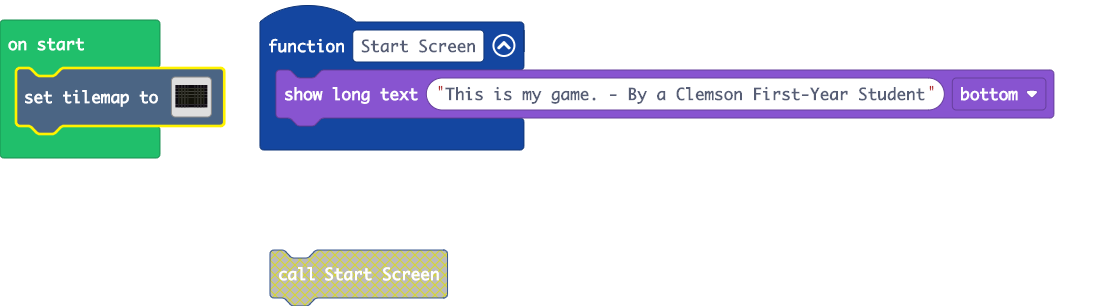
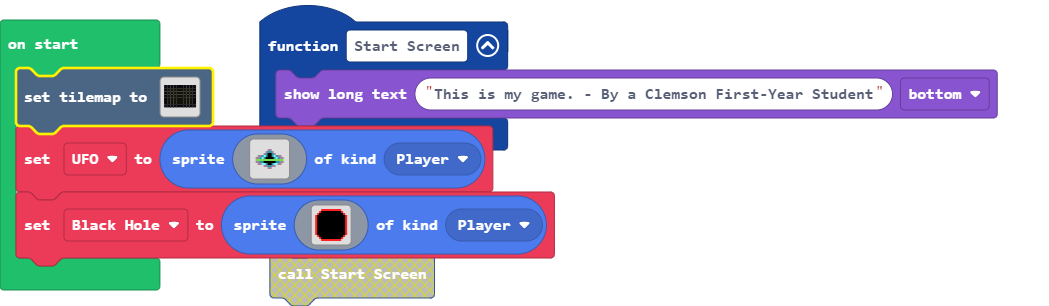
Update pxt.json, main.blocks, main.ts, tilemap.g.jres, tilemap.g.ts

Changed region(s): [[0.0, 0.0, 0.9762, 1.0], [0.122, 0.0588, 0.1525, 0.2353], [0.0, 0.1176, 0.0915, 0.1765]]

diff --git a/main.ts b/main.ts
@@ -1,7 +1,7 @@
 function Start_Screen () {
     game.showLongText("This is my game. - By a Clemson First-Year Student", DialogLayout.Bottom)
 }
[2 lines of base64/hex data omitted]
     . . . . . . . . . . 
     . . . . . . . . . . 
     . . . . . . . . . . 
@@ -9,4 +9,40 @@ tiles.setTilemap(tiles.createTilemap(hex`0a0007000403030303030303030902010101010
     . . . . . . . . . . 
     . . . . . . . . . . 
     . . . . . . . . . . 
-    `, [myTiles.transparency16,myTiles.tile1,myTiles.tile2,myTiles.tile5,myTiles.tile6,myTiles.tile8,myTiles.tile9,myTiles.tile3,myTiles.tile4,myTiles.tile7], TileScale.Sixteen))
+    `, [myTiles.transparency16,myTiles.tile1,myTiles.tile2,myTiles.tile5,myTiles.tile6,myTiles.tile8,myTiles.tile9,myTiles.tile3,myTiles.tile4,myTiles.tile7,myTiles.tile11,myTiles.tile12], TileScale.Sixteen))
+let UFO = sprites.create(img`
+    . . . . . . . . . . . . . . . . 
+    . . . . . . . . . . . . . . . . 
+    . . . . . . . . . . . . . . . . 
+    . . . . . . . b b . . . . . . . 
+    . . . . . . b 6 6 b . . . . . . 
+    . . . . . b 6 f f 6 b . . . . . 
+    . . b b 6 9 6 f f 6 9 6 b b . . 
+    . b b 6 9 6 f f f f 6 9 6 b b . 
+    . 7 7 7 7 7 7 7 7 7 7 7 7 7 7 . 
+    . b b 6 6 f f f f f f 6 6 b b . 
+    . . b b 9 9 6 f f 6 9 9 b b . . 
+    . . . . . b b 6 6 b b . . . . . 
+    . . . . . . . b b . . . . . . . 
+    . . . . . . . . . . . . . . . . 
+    . . . . . . . . . . . . . . . . 
+    . . . . . . . . . . . . . . . . 
+    `, SpriteKind.Player)
+let Black_Hole = sprites.create(img`
+    . . . 2 2 2 2 2 2 2 2 2 2 . . . 
+    . . 2 f f f f f f f f f f 2 . . 
+    . 2 f f f f f f f f f f f f 2 . 
+    2 f f f f f f f f f f f f f f 2 
+    2 f f f f f f f f f f f f f f 2 
+    2 f f f f f f f f f f f f f f 2 
+    2 f f f f f f f f f f f f f f 2 
+    2 f f f f f f f f f f f f f f 2 
+    2 f f f f f f f f f f f f f f 2 
+    2 f f f f f f f f f f f f f f 2 
+    2 f f f f f f f f f f f f f f 2 
+    2 f f f f f f f f f f f f f f 2 
+    2 f f f f f f f f f f f f f f 2 
+    . 2 f f f f f f f f f f f f 2 . 
+    . . 2 f f f f f f f f f f 2 . . 
+    . . . 2 2 2 2 2 2 2 2 2 2 . . . 
+    `, SpriteKind.Player)

diff --git a/tilemap.g.ts b/tilemap.g.ts
@@ -20,6 +20,12 @@ namespace myTiles {
     export const tile8 = image.ofBuffer(hex``);
     //% fixedInstance jres blockIdentity=images._tile
     export const tile9 = image.ofBuffer(hex``);
+    //% fixedInstance jres blockIdentity=images._tile
+    export const tile10 = image.ofBuffer(hex``);
+    //% fixedInstance jres blockIdentity=images._tile
+    export const tile11 = image.ofBuffer(hex``);
+    //% fixedInstance jres blockIdentity=images._tile
+    export const tile12 = image.ofBuffer(hex``);
 
 }
 // Auto-generated code. Do not edit.
